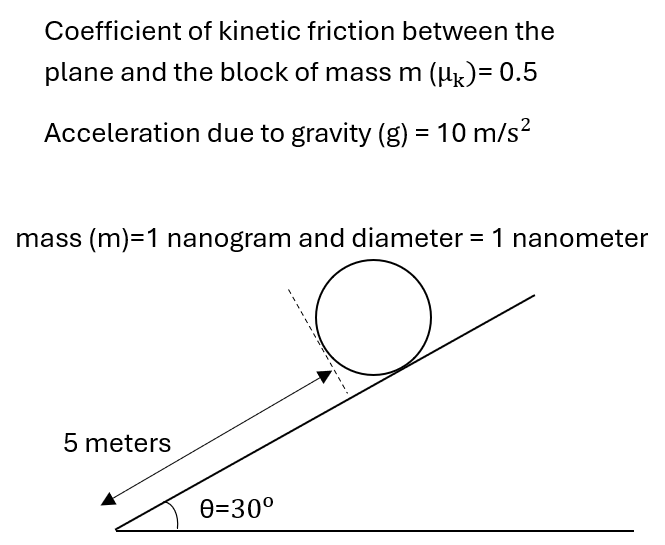
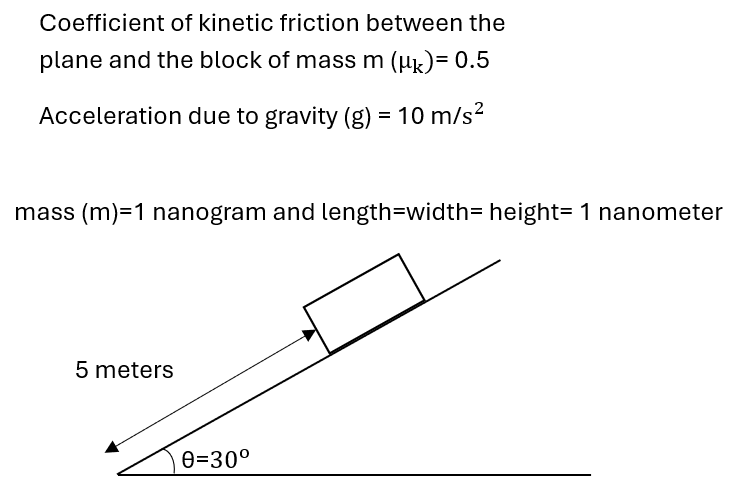
completed problems for image set

diff --git a/Problems/Image/image_prompts.py b/Problems/Image/image_prompts.py
@@ -1,60 +1,46 @@
-## dictionary consisting of system prompts for image based problems
+## dictionary for regular prompts and system prompts 
 
-## dictionary for regular prompts for the 9 problems
-from textwrap import dedent
-regular_system_prompts = {
-                "Problem_1_Regular_Q": """You are a physics expert. 
-                                    From the figure provide a brief description and calculate the total time taken by the block to travel 5 meters""",
+problem_1_keys = ["Problem_1_Regular_Q", "Problem_1_Obvious_Q", "Problem_1_non_Obvious_Q"]
+prompt_1= ("You are a physics expert."
+                     " From the figure provide a brief description and calculate the total time taken by the block to travel 5 meters."
+                     " All the necessary values required are given in the picture."                                           
+)
 
-                "Problem_1_Obvious_Q":"""You are a physics expert.
-                                    From the figure provide a brief description and calculate the total time taken by the sphere to travel 5 meters,
-                                    given there is rolling with no slipping""",
-
-                "Problem_1_non_Obvious_Q":"""You are a physics expert.
-                                    From the figure provide a brief description and calculate the total time taken by the sphere to travel 5 meters,
-                                    given there is rolling with no slipping""",
+dict_1 = dict.fromkeys(problem_1_keys , prompt_1)
 
 
-                "Problem_2_Regular_Q":"""You are a physics expert.
-                                    From the figure provide a brief descriptin and calculate the time period of oscillation for small displacement""",
+problem_2_keys = ["Problem_2_Regular_Q", "Problem_2_Obvious_Q", "Problem_2_non_Obvious_Q"]
+prompt_2= ("You are a physics expert."
+                     " From the figure provide a brief description and calculate the time period of oscillation for small displacements."
+                     " All the necessary values required are given in the picture."  
+)
 
-                "Problem_2_Obvious_Q":"""You are a physics expert.
-                                    From the figure provide a brief description and calculate the time period of oscillation for small displacement""",
-
-                "Problem_2_non_Obvious_Q":"""You are a physics expert.
-                                    From the figure provide a brief descrption and calculate the time period of oscillation for small displacement""",
+dict_2 = dict.fromkeys(problem_2_keys , prompt_2)
 
 
-                "Problem_3_Regular_Q":"""You are a physics expert.
-                                    From the figure provide a brief descrption and calculate the velocity of the solid sphere (a rigid body) at the 
-                                    bottom of the plane using conservation of energy, given that the solid sphere rolls without slipping""",
-                                        
-                "Problem_3_Obvious_Q":"""You are a physics expert.
-                                    From the figure provide a brief descrption and calculate the velocity of the solid sphere (a rigid body) at the 
-                                    bottom of the plane using conservation of energy, given that the solid sphere rolls without slipping""",
+problem_3_keys = ["Problem_3_Regular_Q", "Problem_3_Obvious_Q", "Problem_3_non_Obvious_Q"]
+prompt_3= ("You are a physics expert."
+                     " From the figure provide a brief description and calculate the velocity of the solid sphere (a rigid body) at the bottom of"
+                     " the plane using conservation of energy given that the solid sphere rolls without slipping and starts rolling from rest"
+                     " unless mentioned."
+                     " All the necessary values required are given in the picture."  
+)
 
-                "Problem_3_non_Obvious_Q":"""You are a physics expert.
-                                    From the figure provide a brief descrption and calculate the velocity of the solid sphere (a rigid body) at the 
-                                    bottom of the plane using conservation of energy, given that the solid sphere rolls without slipping""",
+dict_3 = dict.fromkeys(problem_1_keys , prompt_3)
 
-}
 
-print(regular_system_prompts)
+regular_system_prompt = {**dict_1, **dict_2, **dict_3}
+print(regular_system_prompt)
 
 
 ## Create a set of detail prompts
 
-detail_system_prompts= {}
+detail_system_prompt= {}
 
-for key, value in regular_system_prompts.items():
-    detail_system_prompts[key] = value + """ but if there are any physical laws broken then mention it and
-                                                  also say of the problem can be solved or not"""
+for key, value in regular_system_prompt.items():
+    detail_system_prompt[key] = value + ("But if there are any physical laws broken then mention it and"
+                                                  " also say of the problem can be solved or not." )
 
+print(detail_system_prompt)
 
-
-print(detail_system_prompts)
-
-
-            
-
-            
+        
